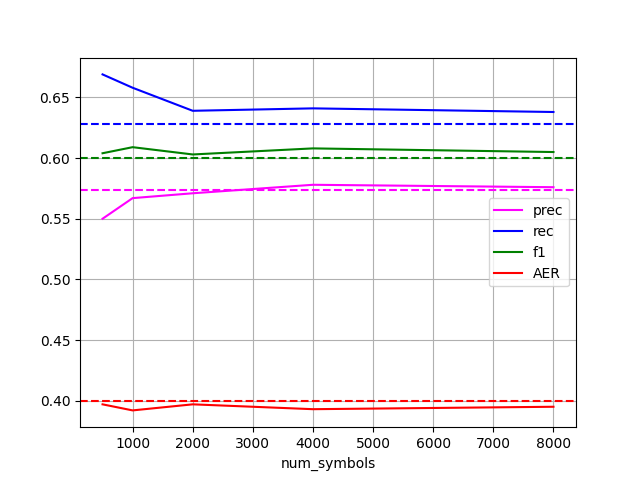
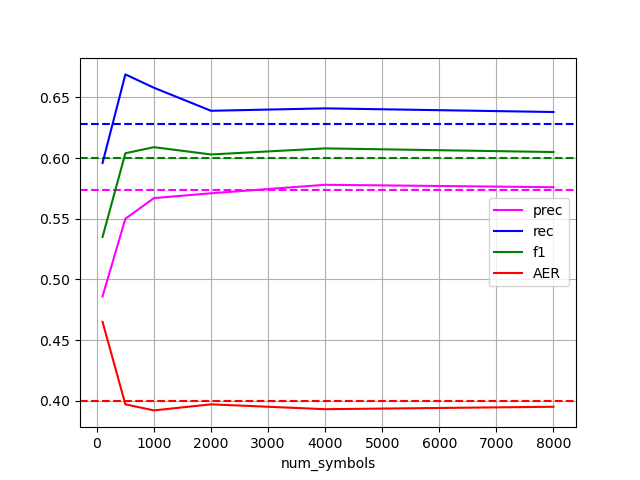
added dropout_bpe vs bpe scores

diff --git a/calc_align_score.py b/calc_align_score.py
@@ -101,13 +101,21 @@ def plot_scores(df, baseline_df, scoredir):
 	ax = plt.gca()
 
 	colors = ['magenta', 'blue', 'green', 'red']
-	for baseline_results, color in zip(list(baseline_df.iloc[0][1:]), colors):
-		plt.axhline(y=baseline_results, color=color, linestyle='dashed')
 
 	df = df.sort_values('num_symbols')
 	columns = list(df)
 	for column, color in zip(columns[1:], colors):
 		df.plot(kind='line', x=columns[0], y=column, color=color, ax=ax)
+
+	if dropout:
+		baseline_df = baseline_df.sort_values('num_symbols')
+		columns = list(baseline_df)
+		for column, color in zip(columns[1:], colors):
+			baseline_df.plot(kind='line', x=columns[0], y=column,
+                             color=color, ax=ax, legend=False, linestyle='dashed')
+	else:
+		for baseline_results, color in zip(list(baseline_df.iloc[0][1:]), colors):
+			plt.axhline(y=baseline_results, color=color, linestyle='dashed')
 
 	plt.grid()
 	#plt.ylim(ymax=1, ymin=0)
@@ -120,8 +128,12 @@ def calc_align_scores(i=-1):
 	gold_path = join(datadir, 'input/eng_deu.gold')
 	probs, surs, surs_count = load_gold(gold_path)
 
-	baseline_df = get_baseline_score(probs, surs, surs_count)
-
+	# dropout case: take normal BPE scores as baseline. if normal case, take gold standard
+	if dropout:
+		baseline_df = pd.read_csv(join(datadir, 'normal_bpe/scores/scores_'+source+'_'+target+'.csv'))
+	else:
+		baseline_df = get_baseline_score(probs, surs, surs_count)
+		
 	scores = []
 	# calc score of num_symbols
 	os.chdir(join(bpedir, 'fastalign'))
@@ -134,7 +146,7 @@ def calc_align_scores(i=-1):
 
 	df = pd.DataFrame(scores, columns=['num_symbols', 'prec', 'rec', 'f1', 'AER']).round(decimals=3)
 
-	scoredir = join(bpedir, 'scores', 'scores_'+source+'_'+target+'_'+score_baseline+('_'+str(i) if dropout else ''))
+	scoredir = join(bpedir, 'scores', 'scores_'+('' if dropout else source+'_'+target)+('_'+str(i) if dropout else ''))
 	print(f"Scores saved into {scoredir}")
 
 	df.to_csv(scoredir+'.csv', index=False)

diff --git a/avg_scores.py b/avg_scores.py
@@ -19,12 +19,17 @@ if __name__ == "__main__":
             random_idx.add(random.randrange(10))
 
         # baseline score
-        baseline_df = get_baseline_score()
+        if dropout:
+            baseline_df = pd.read_csv(join(datadir, 'normal_bpe/scores/scores_'+source+'_'+target+'.csv'))
+        else:
+            gold_path = join(datadir, 'input/eng_deu.gold')
+            baseline_df = get_baseline_score(*load_gold(gold_path))
+
         df = pd.DataFrame()
 
         for rd_idx in list(random_idx):
 
-            df2 = pd.read_csv(os.path.join(bpedir, 'scores', 'scores_'+source+'_'+target+str(rd_idx)+'.csv'))
+            df2 = pd.read_csv(os.path.join(bpedir, 'scores', 'scores_'+str(rd_idx)+'.csv'))
 
             # first step of the iteration, just get the whole dataframe
             if df.empty:
@@ -37,9 +42,7 @@ if __name__ == "__main__":
         # divide all by \# elements added, to get average
         for col in list(df)[1:]:
             df[col] = df[col].apply(lambda x: x/i)
-    
-        df = pd.concat([baseline_df, df]).round(decimals=3)
 
-        plot_name = 'scores/avg/scores_'+source+'_'+target+'avg_'+str(i)
-        df.to_csv(os.path.join(bpedir, plot_name+'.csv'), index=False)
-        plot_scores(df, join(bpedir, plot_name))
+        plot_name = 'scores/avg/scores_avg_'+str(i)
+        df.round(decimals=3).to_csv(os.path.join(bpedir, plot_name+'.csv'), index=False)
+        plot_scores(df, baseline_df, join(bpedir, plot_name))

diff --git a/README.md b/README.md
@@ -4,8 +4,6 @@ Master thesis repo
 
 ## tasks
 
-* [ ] compare bpe (as baseline? or normal?) & bpe_dropout
-  * [ ] adjust calc_align_score to plot bpe_baseline in plot as dashed
 * [ ] do normal_eng & bpe_deu again, both sides, fewer symbols (if german_bpe ^ ('\_deu' in alfile))
 * [ ] dropout + bpe_deu experiment
 
@@ -20,6 +18,11 @@ Master thesis repo
 ## unigram LM paper
 
 * [Comments on the paper](http://www.timoschick.com/paper%20picks/2020/04/14/bpe-is-suboptimal-for-lm-pretraining.html)
+
+## scores
+
+* In normal mode, BPE vs. gold standard
+* In dropout mode, dropout BPE vs. BPE
 
 ## pipeline
 
